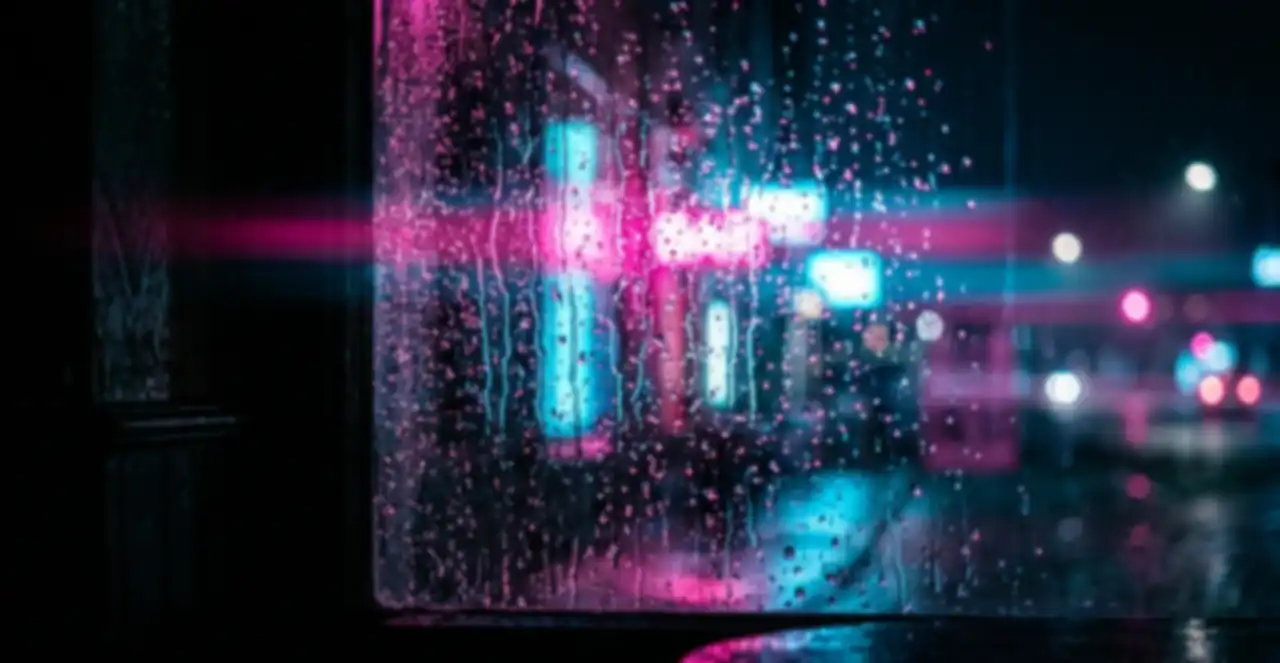
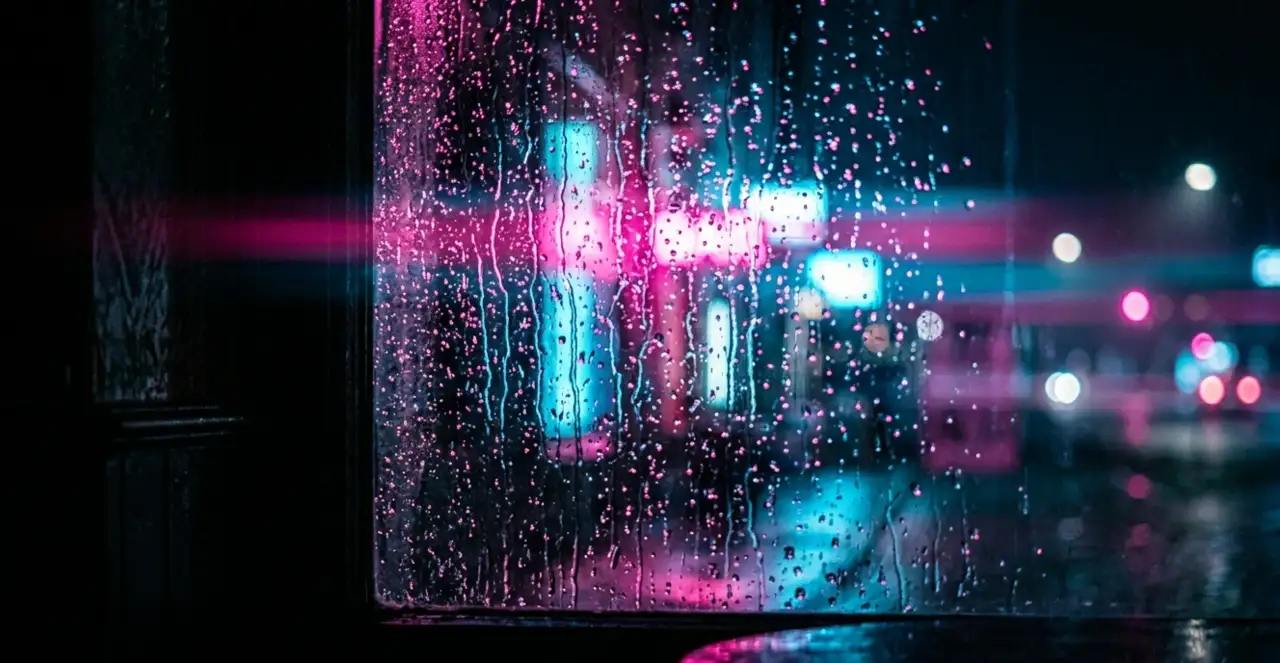
背景画像のぼかし完全除去（CSS blur + ImageMagick blur 両方撤去）

diff --git a/src/index.css b/src/index.css
@@ -58,8 +58,7 @@ body {
   background-size: cover;
   background-position: center;
   background-repeat: no-repeat;
-  filter: blur(1px) brightness(0.7) saturate(1.3);
-  transform: scale(1.05); /* blur edge bleed prevention */
+  filter: brightness(0.7) saturate(1.3);
 }
 
 .bar-bg-image::after {
